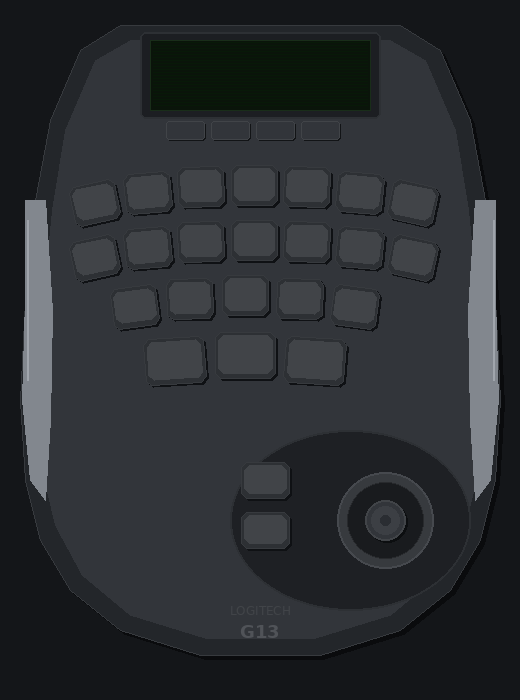
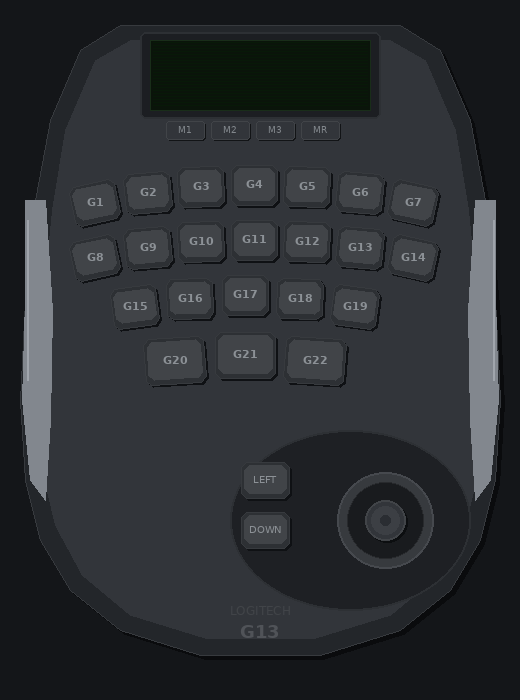
feat: Add button labels to G13 device background image
- Add G1-G22 labels on all G-keys
- Add M1, M2, M3, MR labels on mode keys
- Add LEFT, DOWN labels on thumb buttons
- Labels rendered in light gray for visibility

🤖 Generated with [Claude Code](https://claude.com/claude-code)

diff --git a/generate_polished_g13.py b/generate_polished_g13.py
@@ -39,8 +39,8 @@ def rotate_point(x, y, cx, cy, angle_deg):
     return (cx + dx * cos_a - dy * sin_a, cy + dx * sin_a + dy * cos_a)
 
 
-def draw_rounded_key(draw, cx, cy, w, h, angle=0, radius=5):
-    """Draw a key centered at (cx, cy) with optional rotation."""
+def draw_rounded_key(draw, cx, cy, w, h, angle=0, radius=5, label=None, font=None):
+    """Draw a key centered at (cx, cy) with optional rotation and label."""
     # For rotated keys, we draw a polygon approximation
     hw, hh = w / 2, h / 2
 
@@ -85,8 +85,12 @@ def draw_rounded_key(draw, cx, cy, w, h, angle=0, radius=5):
 
     draw.polygon(inner_corners, fill=KEY_TOP)
 
+    # Draw label
+    if label and font:
+        draw.text((cx, cy - 1), label, fill=(140, 145, 150), font=font, anchor="mm")
 
-def draw_m_key(draw, cx, cy, w, h):
+
+def draw_m_key(draw, cx, cy, w, h, label=None, font=None):
     """Draw smaller M-key."""
     hw, hh = w / 2, h / 2
     # Shadow
@@ -99,11 +103,24 @@ def draw_m_key(draw, cx, cy, w, h):
         (cx - hw, cy - hh, cx + hw, cy + hh),
         radius=3, fill=(50, 53, 58), outline=(65, 68, 72)
     )
+    # Label
+    if label and font:
+        draw.text((cx, cy), label, fill=(130, 135, 140), font=font, anchor="mm")
 
 
 def main():
     img = Image.new('RGB', (WIDTH, HEIGHT), BLACK)
     draw = ImageDraw.Draw(img)
+
+    # Load fonts for key labels
+    try:
+        font_key = ImageFont.truetype("/usr/share/fonts/truetype/dejavu/DejaVuSans-Bold.ttf", 11)
+        font_m = ImageFont.truetype("/usr/share/fonts/truetype/dejavu/DejaVuSans.ttf", 9)
+        font_thumb = ImageFont.truetype("/usr/share/fonts/truetype/dejavu/DejaVuSans.ttf", 10)
+    except:
+        font_key = ImageFont.load_default()
+        font_m = font_key
+        font_thumb = font_key
 
     # === MAIN BODY - Ergonomic curved shape ===
     # The G13 body curves like a hand rest - narrow top, wide curved bottom
@@ -192,9 +209,9 @@ def main():
 
     # === M-KEYS (below LCD) ===
     m_y = 130
-    m_positions = [185, 230, 275, 320]  # M1, M2, M3, MR
-    for mx in m_positions:
-        draw_m_key(draw, mx, m_y, 38, 18)
+    m_keys = [(185, "M1"), (230, "M2"), (275, "M3"), (320, "MR")]
+    for mx, label in m_keys:
+        draw_m_key(draw, mx, m_y, 38, 18, label=label, font=font_m)
 
     # === G-KEYS - Arranged in ARCS ===
     # The real G13 keys follow curved arcs matching finger reach
@@ -203,60 +220,59 @@ def main():
     key_w, key_h = 46, 40
 
     # Row 1: G1-G7 (top arc)
-    # Keys curve: outer ones lower and angled
     row1_y_base = 185
-    row1_positions = [
-        # (cx, cy, angle) - angle tilts key
-        (95,  row1_y_base + 18, -12),   # G1 - leftmost, angled left
-        (148, row1_y_base + 8,  -6),    # G2
-        (201, row1_y_base + 2,  -2),    # G3
-        (254, row1_y_base,       0),    # G4 - center
-        (307, row1_y_base + 2,   2),    # G5
-        (360, row1_y_base + 8,   6),    # G6
-        (413, row1_y_base + 18,  12),   # G7 - rightmost, angled right
+    row1_keys = [
+        # (cx, cy, angle, label)
+        (95,  row1_y_base + 18, -12, "G1"),
+        (148, row1_y_base + 8,  -6,  "G2"),
+        (201, row1_y_base + 2,  -2,  "G3"),
+        (254, row1_y_base,       0,  "G4"),
+        (307, row1_y_base + 2,   2,  "G5"),
+        (360, row1_y_base + 8,   6,  "G6"),
+        (413, row1_y_base + 18,  12, "G7"),
     ]
 
-    for cx, cy, angle in row1_positions:
-        draw_rounded_key(draw, cx, cy, key_w, key_h, angle)
+    for cx, cy, angle, label in row1_keys:
+        draw_rounded_key(draw, cx, cy, key_w, key_h, angle, label=label, font=font_key)
 
     # Row 2: G8-G14
     row2_y_base = 240
-    row2_positions = [
-        (95,  row2_y_base + 18, -12),
-        (148, row2_y_base + 8,  -6),
-        (201, row2_y_base + 2,  -2),
-        (254, row2_y_base,       0),
-        (307, row2_y_base + 2,   2),
-        (360, row2_y_base + 8,   6),
-        (413, row2_y_base + 18,  12),
+    row2_keys = [
+        (95,  row2_y_base + 18, -12, "G8"),
+        (148, row2_y_base + 8,  -6,  "G9"),
+        (201, row2_y_base + 2,  -2,  "G10"),
+        (254, row2_y_base,       0,  "G11"),
+        (307, row2_y_base + 2,   2,  "G12"),
+        (360, row2_y_base + 8,   6,  "G13"),
+        (413, row2_y_base + 18,  12, "G14"),
     ]
 
-    for cx, cy, angle in row2_positions:
-        draw_rounded_key(draw, cx, cy, key_w, key_h, angle)
+    for cx, cy, angle, label in row2_keys:
+        draw_rounded_key(draw, cx, cy, key_w, key_h, angle, label=label, font=font_key)
 
     # Row 3: G15-G19 (5 keys, more centered)
     row3_y_base = 295
-    row3_positions = [
-        (135, row3_y_base + 12, -8),    # G15
-        (190, row3_y_base + 4,  -3),    # G16
-        (245, row3_y_base,       0),    # G17 - center
-        (300, row3_y_base + 4,   3),    # G18
-        (355, row3_y_base + 12,  8),    # G19
+    row3_keys = [
+        (135, row3_y_base + 12, -8, "G15"),
+        (190, row3_y_base + 4,  -3, "G16"),
+        (245, row3_y_base,       0, "G17"),
+        (300, row3_y_base + 4,   3, "G18"),
+        (355, row3_y_base + 12,  8, "G19"),
     ]
 
-    for cx, cy, angle in row3_positions:
-        draw_rounded_key(draw, cx, cy, key_w, key_h, angle)
+    for cx, cy, angle, label in row3_keys:
+        draw_rounded_key(draw, cx, cy, key_w, key_h, angle, label=label, font=font_key)
 
     # Row 4: G20-G22 (3 wider keys - thumb/space row)
     row4_y_base = 355
-    row4_positions = [
-        (175, row4_y_base + 6, -4),     # G20
-        (245, row4_y_base,      0),     # G21 - center
-        (315, row4_y_base + 6,  4),     # G22
+    row4_keys = [
+        (175, row4_y_base + 6, -4, "G20"),
+        (245, row4_y_base,      0, "G21"),
+        (315, row4_y_base + 6,  4, "G22"),
     ]
 
-    for cx, cy, angle in row4_positions:
-        draw_rounded_key(draw, cx, cy, key_w + 14, key_h + 6, angle)
+    for cx, cy, angle, label in row4_keys:
+        draw_rounded_key(draw, cx, cy, key_w + 14, key_h + 6, angle, label=label, font=font_key)
 
     # === PALM REST with THUMBSTICK ===
     # Large curved area at bottom
@@ -271,8 +287,8 @@ def main():
     # === THUMB BUTTONS (LEFT, DOWN) ===
     # To the left of thumbstick
     thumb_x = 265
-    draw_rounded_key(draw, thumb_x, 480, 48, 36, 0)  # LEFT
-    draw_rounded_key(draw, thumb_x, 530, 48, 36, 0)  # DOWN
+    draw_rounded_key(draw, thumb_x, 480, 48, 36, 0, label="LEFT", font=font_thumb)
+    draw_rounded_key(draw, thumb_x, 530, 48, 36, 0, label="DOWN", font=font_thumb)
 
     # === THUMBSTICK ===
     stick_cx, stick_cy = 385, 520
